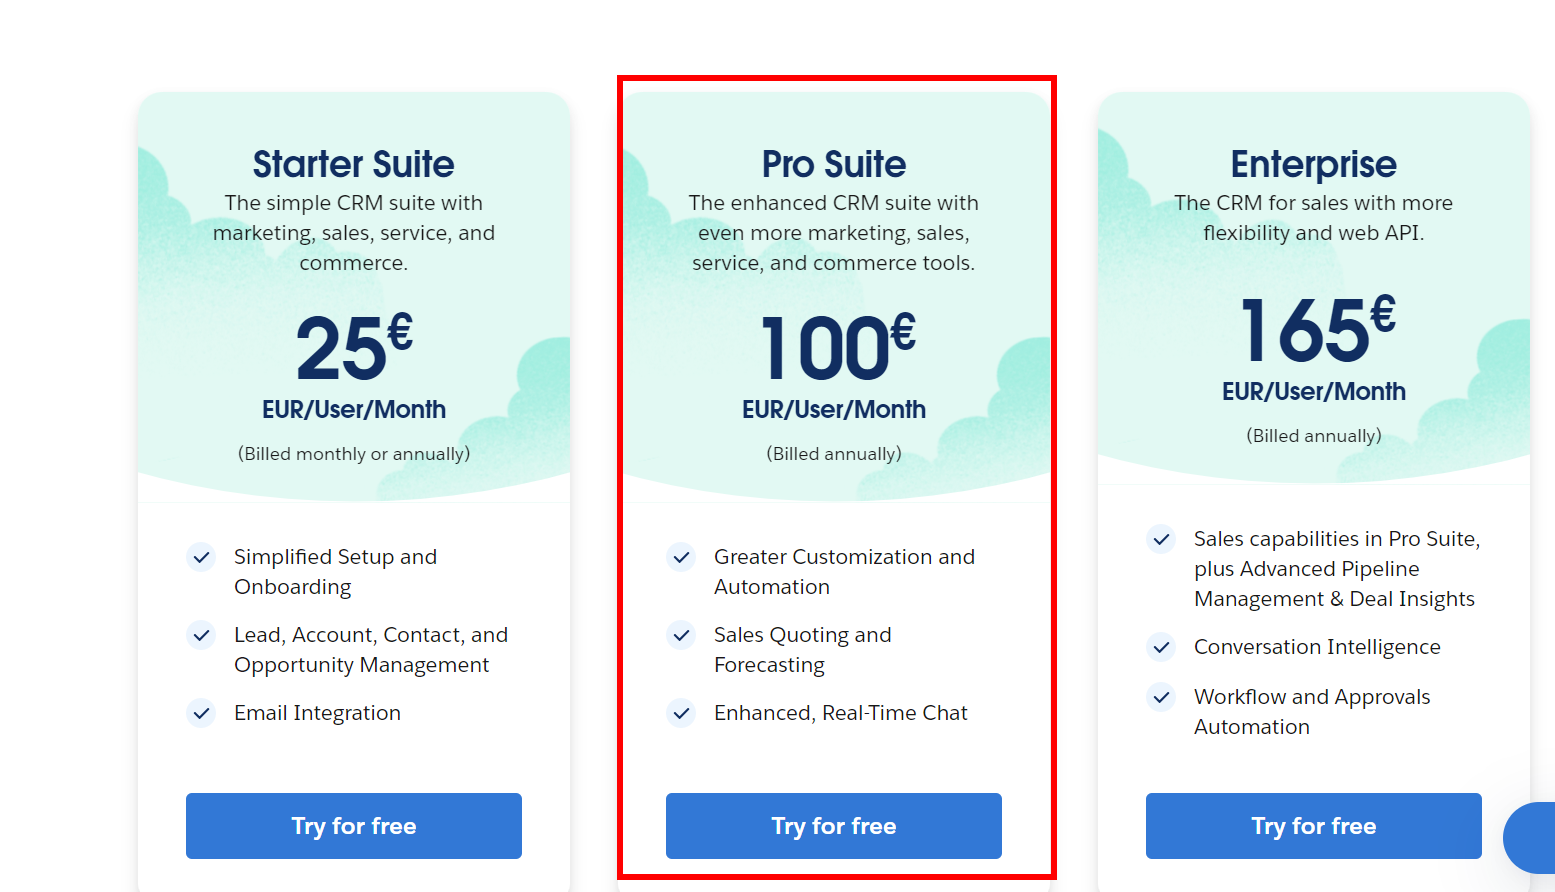
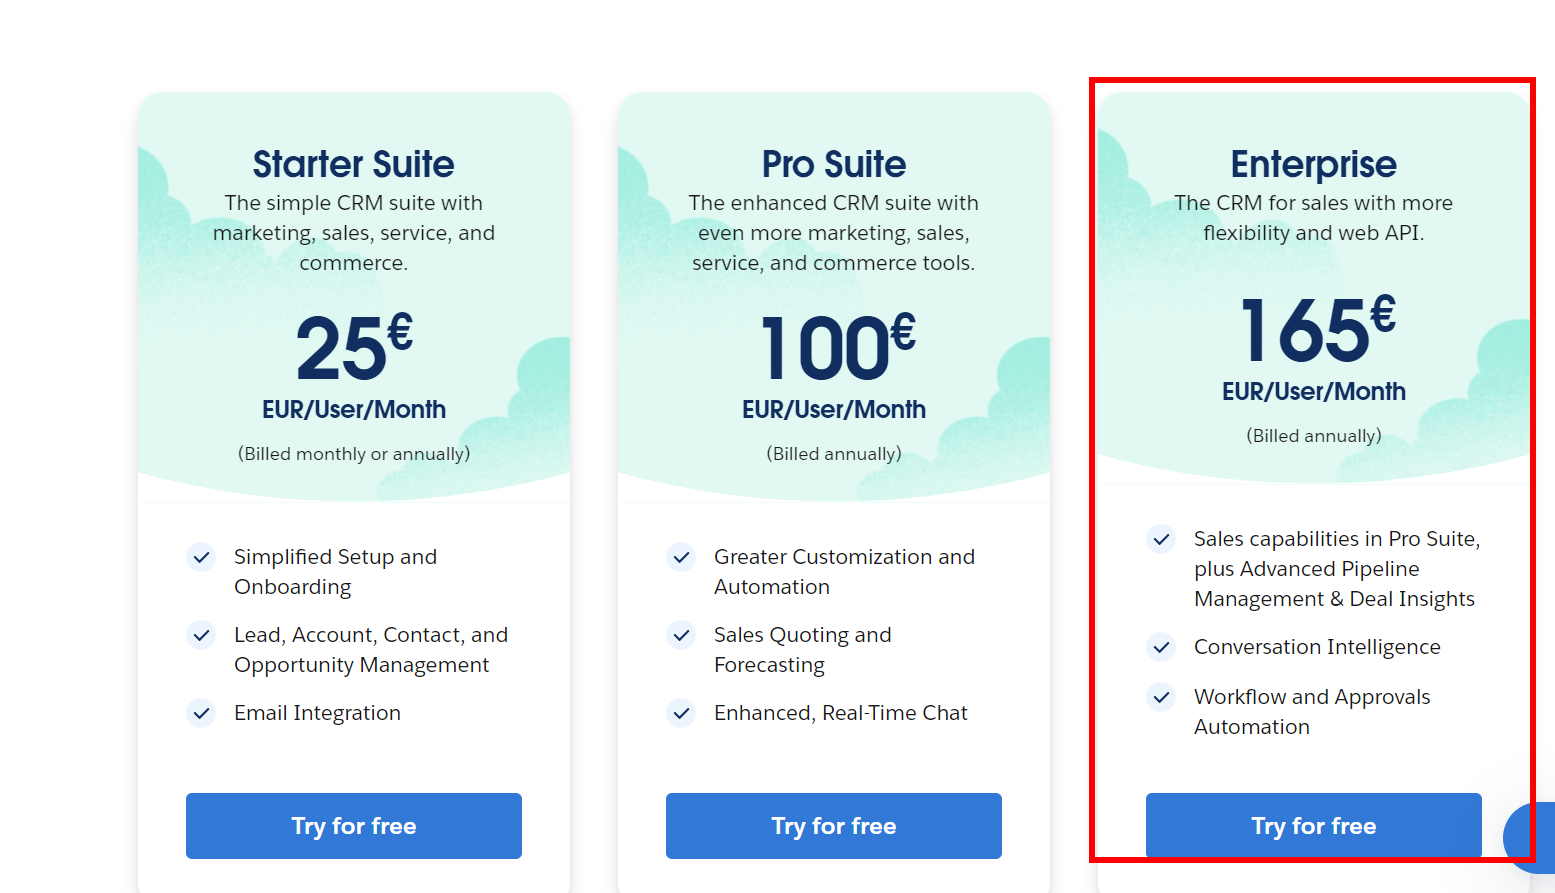
Finished

diff --git a/KN10/README.md b/KN10/README.md
@@ -52,12 +52,46 @@
 
 ### Zoho CRM
 
-Beim Zoho CRM nehmen wir die enterprise Version
+Beim Zoho CRM nehmen wir die Enterprise Version
 
 ![Zoho CRM](media/Zoho-crm.png)
 
+#### Gesamtpreis Zoho
+
+40CHF/Monat
+
 ### Salesforce CRM
 
-Beim Salesforce CRM nehmen wir die pro suite.
+Beim Salesforce CRM nehmen wir die Enterprise suite.
 
 ![Salesforce-crm](media/Salesforce-crm.png)
+
+#### Gesamtpreis Salesforce
+
+165CHF/Monat
+
+D) Interpretation der Resultate (10%)
+
+### Kosten
+
+| Cloudanbieter | Preis          |
+| :------------ | :------------- |
+| AWS           | 75.26CHF/Monat |
+| Azure         | 85.45CHF/Monat |
+| Heroku        | 277CHF/Monat   |
+| Zoho          | 40CHF/Monat    |
+| Salesforce    | 165CHF/Monat   |
+
+Zoho-CRM ist am billigsten
+
+### Aufwand
+
+Bei den IAAS Lösungen kann man die bereits existierenden Server(Datenbank/Webserver) direkt auf die Cloud migrieren. **Schnellste Migration**
+
+Bei den PAAS Service kann es möglich sein, das die Server(Datenbank/Webserver) angepasst werden müssen, damit sie auf dem vorgegeben Betriebssystem bzw. auf der vorgegeben Platform funktionieren.
+
+Bei den SAAS Lösungen müssen alle Daten von der alten Datenbank zur neuen migriert werden. Da es ein neues Tool ist müssen die Mitarbeiter auch noch geschult werden um die Umgebung kennezulernen. **Am meisten Aufwand**
+
+#### Lösung
+
+Entweder Aws oder Zoho.
